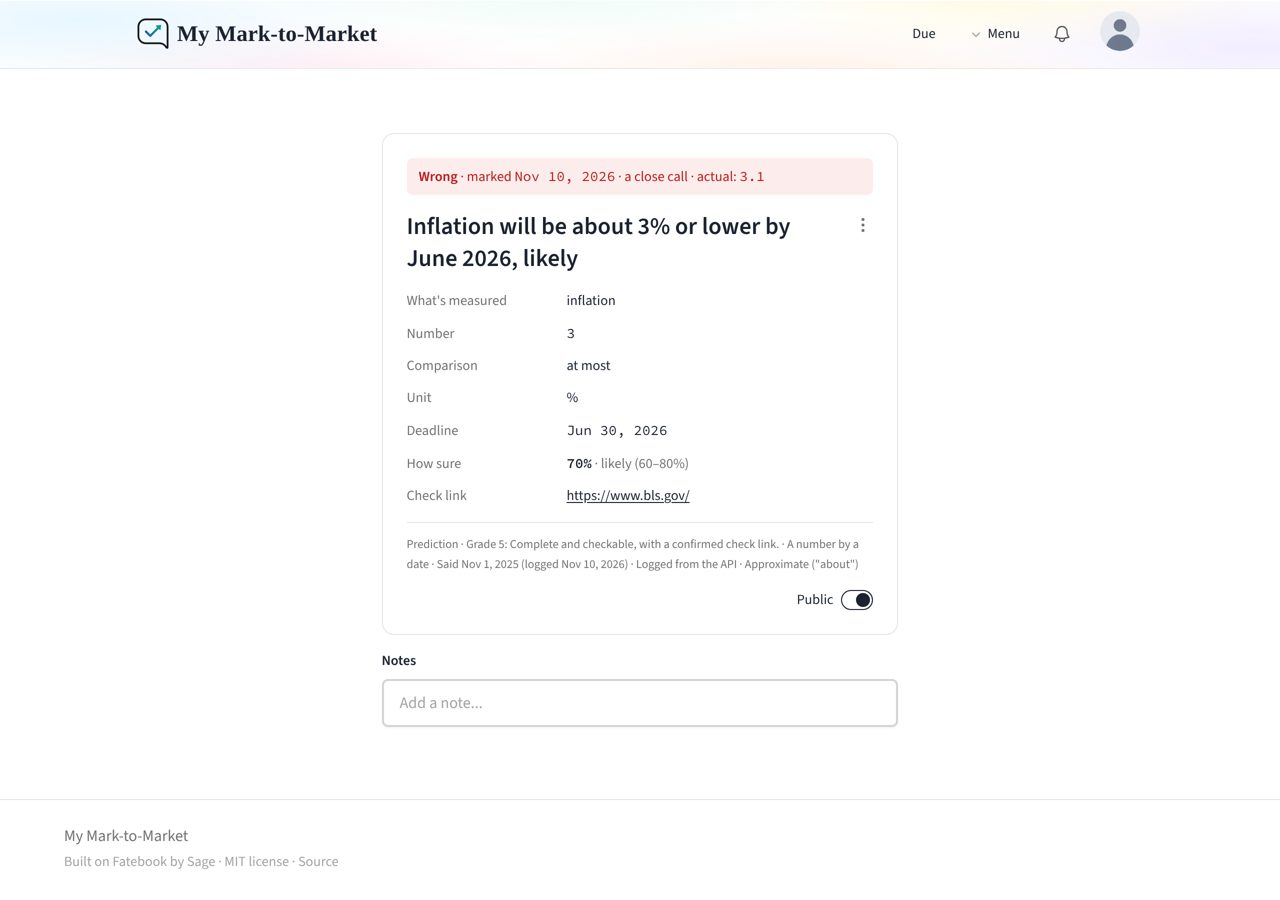
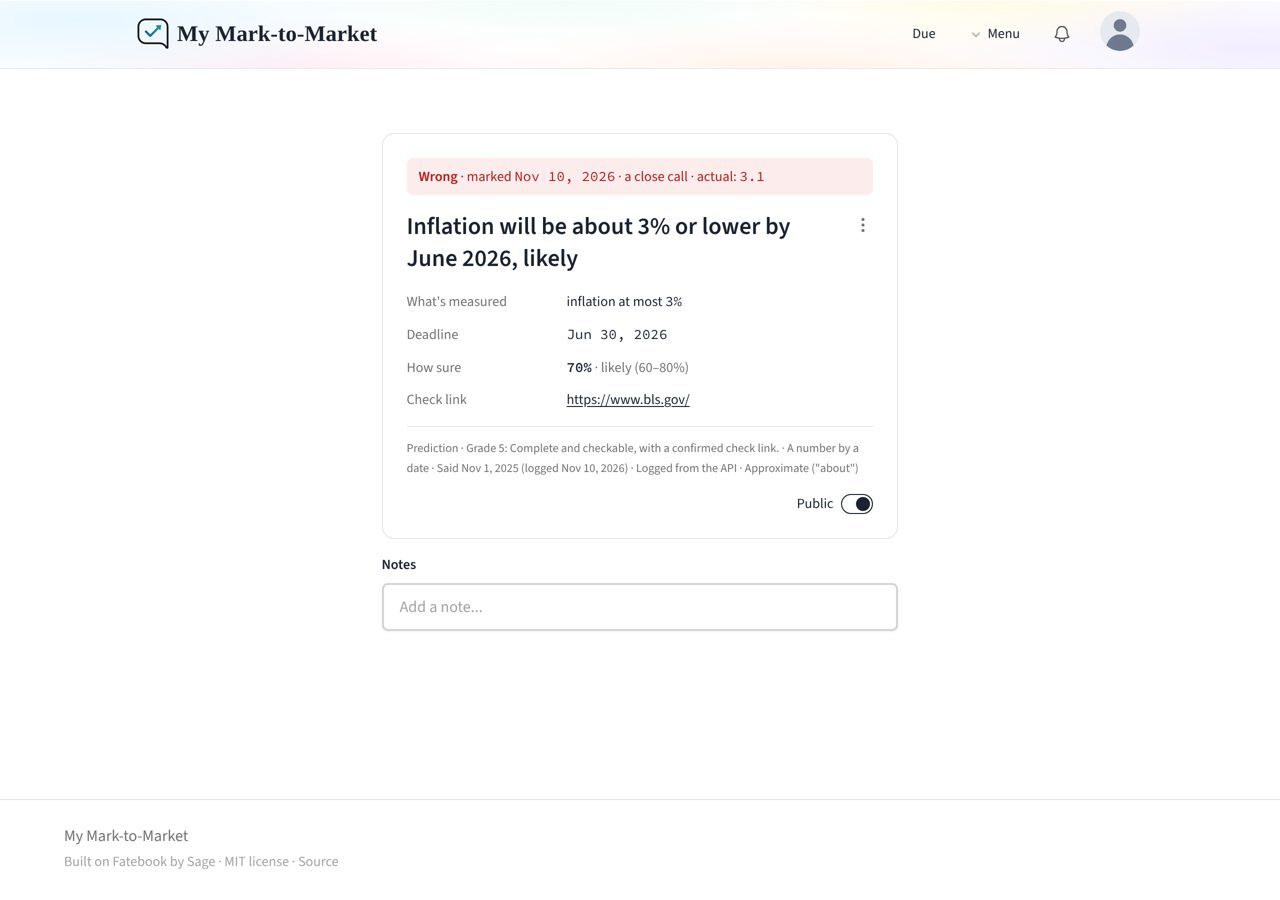
Card: number predictions on one line, markers beside labels, plain shape names, 'Update preview'
Claude-Session: https://claude.ai/code/session_01FvHbj5ESygproSy75GVkKP

diff --git a/components/claims/card/shared.tsx b/components/claims/card/shared.tsx
@@ -1,5 +1,4 @@
 import { ClaimShape } from "@prisma/client"
-import clsx from "clsx"
 import { ReactNode } from "react"
 import { ClaimView } from "../../../lib/claims/service"
 import { allowedParts, SHAPE_PARTS } from "../../../lib/claims/types"
@@ -56,17 +55,21 @@ export const SHAPE_PLAIN: Record<ClaimShape, string> = {
 /** A label with its value: stacked on a phone, side by side on a desktop. */
 export function Field({
   label,
+  marker,
   children,
   action,
 }: {
   label: string
+  /** sits beside the label, so it never ends up alone on a line of its own */
+  marker?: ReactNode
   children: ReactNode
   action?: ReactNode
 }) {
   return (
     <div className="grid grid-cols-[1fr_auto] sm:grid-cols-[9rem_1fr_auto] gap-x-4 gap-y-0.5 items-baseline">
-      <div className="text-xs text-neutral-500 max-sm:col-span-2 sm:text-sm">
-        {label}
+      <div className="flex flex-wrap items-center gap-x-2 gap-y-1 text-xs text-neutral-500 max-sm:col-span-2 sm:text-sm">
+        <span>{label}</span>
+        {marker}
       </div>
       <div className="min-w-0 break-words text-ink">{children}</div>
       {action ? <div className="justify-self-end">{action}</div> : <span />}
@@ -85,7 +88,7 @@ export function Marker({
   return (
     <span
       title={title}
-      className="tone-change ml-2 inline-flex rounded px-1.5 py-0.5 align-middle text-[11px] font-medium whitespace-nowrap"
+      className="tone-change inline-flex rounded px-1.5 py-0.5 text-[11px] font-medium leading-tight whitespace-nowrap"
     >
       {children}
     </span>
@@ -140,6 +143,64 @@ export function Headline({ claim }: { claim: CardClaim }) {
   )
 }
 
+const NOT_MINE =
+  "Suggested by the AI or the app. Not yours until you approve it"
+
+/** The four parts of a number prediction that read as one line. */
+const NUMBER_PARTS = [
+  "measure",
+  "comparison",
+  "value",
+  "valueHigh",
+  "unit",
+] as const
+
+/** "6%", "20% decline", "6 index points" */
+function withUnit(value: string | number, unit?: string | number) {
+  if (unit === undefined || unit === "") return String(value)
+  const text = String(unit)
+  return text.startsWith("%") ? `${value}${text}` : `${value} ${text}`
+}
+
+/**
+ * A number prediction as one line: "unemployment at least 6%", or
+ * "inflation between 2 and 3%". Anything still missing is said so.
+ */
+function NumberLine({ claim }: { claim: CardClaim }) {
+  const { measure, comparison, value, valueHigh, unit } = claim.parts
+  const missing = [
+    !measure && "what is measured",
+    !comparison && "the comparison",
+    !value && "the number",
+    comparison?.value === "between" && !valueHigh && "the upper number",
+    !unit && "the unit",
+  ].filter(Boolean)
+  const number =
+    value === undefined
+      ? null
+      : comparison?.value === "between" && valueHigh
+        ? `${value.value} and ${withUnit(valueHigh.value, unit?.value)}`
+        : withUnit(value.value, unit?.value)
+  return (
+    <>
+      {measure && <span>{String(measure.value)} </span>}
+      {comparison && (
+        <span>
+          {COMPARISON_LABELS[String(comparison.value)] ??
+            String(comparison.value)}{" "}
+        </span>
+      )}
+      {number && <span className="num">{number}</span>}
+      {missing.length > 0 && (
+        <Empty>
+          {measure || comparison || number ? " · " : ""}missing:{" "}
+          {missing.join(", ")}
+        </Empty>
+      )}
+    </>
+  )
+}
+
 /**
  * The rows, each fact once: the outcome parts, the deadline, how sure,
  * the check link.
@@ -161,49 +222,62 @@ export function ClaimFields({
   const deadlinePart = claim.parts.deadline
   return (
     <div className="flex flex-col gap-3 text-base sm:text-sm">
-      {partNamesFor(claim).map((name) => {
-        const part = claim.parts[name as keyof typeof claim.parts]
-        const numeric = name === "value" || name === "valueHigh"
-        return (
-          <Field key={name} label={PART_LABELS[name] ?? name}>
-            {part ? (
-              <>
-                <span className={clsx(numeric && "num")}>
-                  {name === "comparison"
-                    ? COMPARISON_LABELS[String(part.value)] ??
-                      String(part.value)
-                    : String(part.value)}
-                </span>
-                {part.status !== "stated" && (
-                  <Marker
-                    title={
-                      part.status === "extracted"
-                        ? "Read from your words by the AI. Not yours until you approve it"
-                        : "A default the app suggested. Not yours until you approve it"
-                    }
-                  >
-                    {unconfirmed}
-                  </Marker>
-                )}
-              </>
-            ) : (
-              <Empty>{required.includes(name) ? "missing" : "not set"}</Empty>
-            )}
-          </Field>
+      {shape === "NUMBER_BY_DATE" && (
+        <Field
+          label="What's measured"
+          marker={
+            NUMBER_PARTS.some((name) => {
+              const part = claim.parts[name]
+              return part && part.status !== "stated"
+            }) && <Marker title={NOT_MINE}>{unconfirmed}</Marker>
+          }
+        >
+          <NumberLine claim={claim} />
+        </Field>
+      )}
+      {partNamesFor(claim)
+        // a number prediction reads as one line, above
+        .filter(
+          (name) =>
+            shape !== "NUMBER_BY_DATE" ||
+            !(NUMBER_PARTS as readonly string[]).includes(name),
         )
-      })}
+        .map((name) => {
+          const part = claim.parts[name as keyof typeof claim.parts]
+          return (
+            <Field
+              key={name}
+              label={PART_LABELS[name] ?? name}
+              marker={
+                part &&
+                part.status !== "stated" && (
+                  <Marker title={NOT_MINE}>{unconfirmed}</Marker>
+                )
+              }
+            >
+              {part ? (
+                String(part.value)
+              ) : (
+                <Empty>{required.includes(name) ? "missing" : "not set"}</Empty>
+              )}
+            </Field>
+          )
+        })}
       <Field
         label={claim.deadlineKind === "deadline" ? "Deadline" : "Check back by"}
+        marker={
+          deadlinePart ? (
+            deadlinePart.status !== "stated" && (
+              <Marker title={NOT_MINE}>{unconfirmed}</Marker>
+            )
+          ) : (
+            <Marker title="You gave no date, so the app picked this one. Change it any time.">
+              default
+            </Marker>
+          )
+        }
       >
         <span className="num">{formatDay(claim.deadline)}</span>
-        {deadlinePart && deadlinePart.status !== "stated" && (
-          <Marker>{unconfirmed}</Marker>
-        )}
-        {!deadlinePart && (
-          <Marker title="You gave no date, so the app picked this one. Change it any time.">
-            default
-          </Marker>
-        )}
       </Field>
       <Field label="How sure" action={howSureAction}>
         {claim.probability === null ? (
@@ -226,7 +300,18 @@ export function ClaimFields({
           </>
         )}
       </Field>
-      <Field label="Check link" action={checkLinkAction}>
+      <Field
+        label="Check link"
+        action={checkLinkAction}
+        marker={
+          claim.checkLinkUrl &&
+          !claim.checkLinkConfirmed && (
+            <Marker title="Open it, check it shows the thing measured, then confirm">
+              not confirmed
+            </Marker>
+          )
+        }
+      >
         {claim.checkLinkUrl ? (
           <>
             <a
@@ -237,11 +322,6 @@ export function ClaimFields({
             >
               {claim.checkLinkUrl}
             </a>
-            {!claim.checkLinkConfirmed && (
-              <Marker title="Open it, check it shows the thing measured, then confirm">
-                not confirmed
-              </Marker>
-            )}
           </>
         ) : (
           <Empty>

diff --git a/components/claims/card/ClaimEditForm.tsx b/components/claims/card/ClaimEditForm.tsx
@@ -3,7 +3,14 @@ import { ReactNode, useState } from "react"
 import TextareaAutosize from "react-textarea-autosize"
 import { COMPARISONS, SHAPE_PARTS } from "../../../lib/claims/types"
 import { COMPARISON_LABELS, PART_LABELS, SHAPE_LABELS } from "../labels"
-import { BTN_MAIN, BTN_OUTLINE, BTN_TEXT, CardClaim, INPUT } from "./shared"
+import {
+  BTN_MAIN,
+  BTN_OUTLINE,
+  BTN_TEXT,
+  CardClaim,
+  INPUT,
+  SHAPE_PLAIN,
+} from "./shared"
 
 /** Everything the one Edit form can change. Empty text means "none". */
 export type Draft = {
@@ -157,7 +164,7 @@ export function ClaimEditForm({
         >
           {shapes.map((shape) => (
             <option key={shape} value={shape}>
-              {SHAPE_LABELS[shape]}
+              {SHAPE_PLAIN[shape]}
             </option>
           ))}
         </select>
@@ -234,13 +241,13 @@ export function ClaimEditForm({
 
       <p className="m-0 text-xs text-neutral-500">
         {mode === "preview"
-          ? "Saving here updates the preview. Nothing is stored until you approve it."
+          ? "This updates the preview. Nothing is stored until you approve it."
           : "Saving records one new version in the history, and what you save counts as yours. How sure you are is changed on the card itself."}
       </p>
 
       <div className="flex flex-wrap gap-2">
         <button type="submit" className={BTN_MAIN} disabled={busy}>
-          {busy ? "Saving..." : "Save"}
+          {mode === "preview" ? "Update preview" : busy ? "Saving..." : "Save"}
         </button>
         <button
           type="button"
